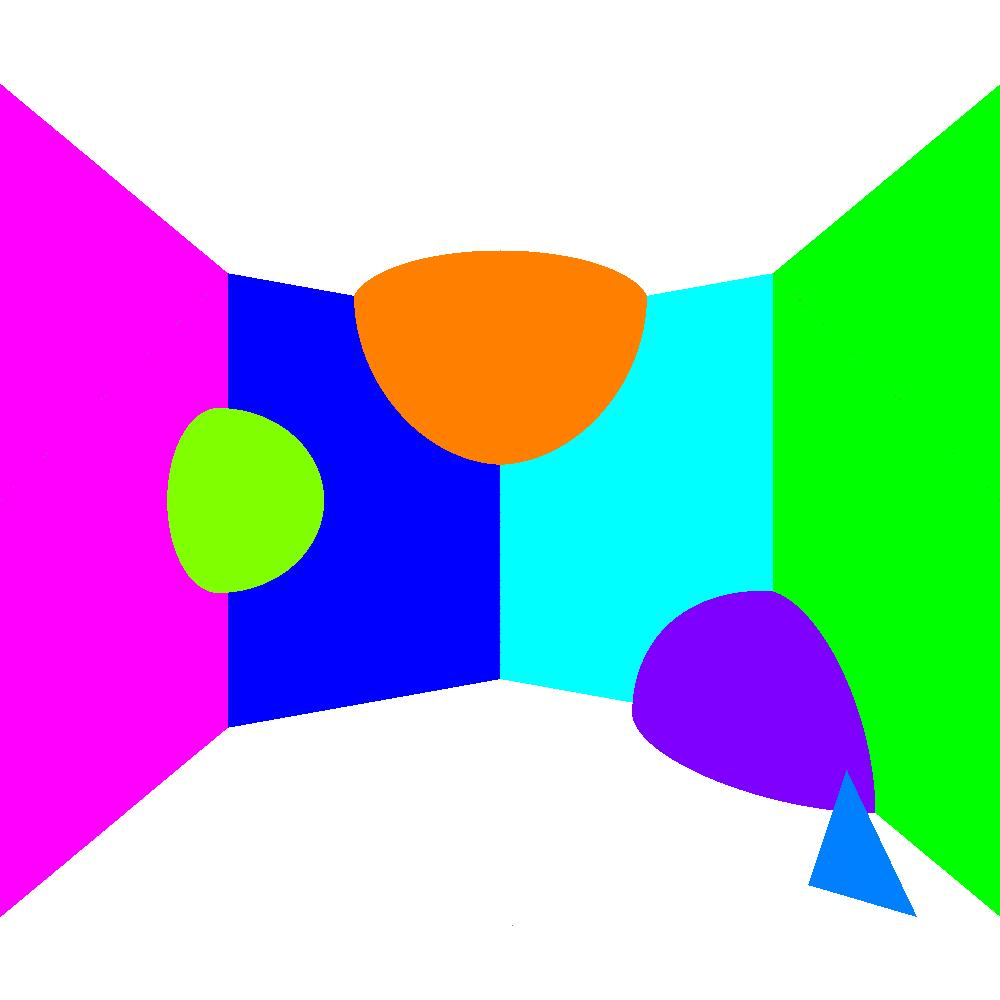
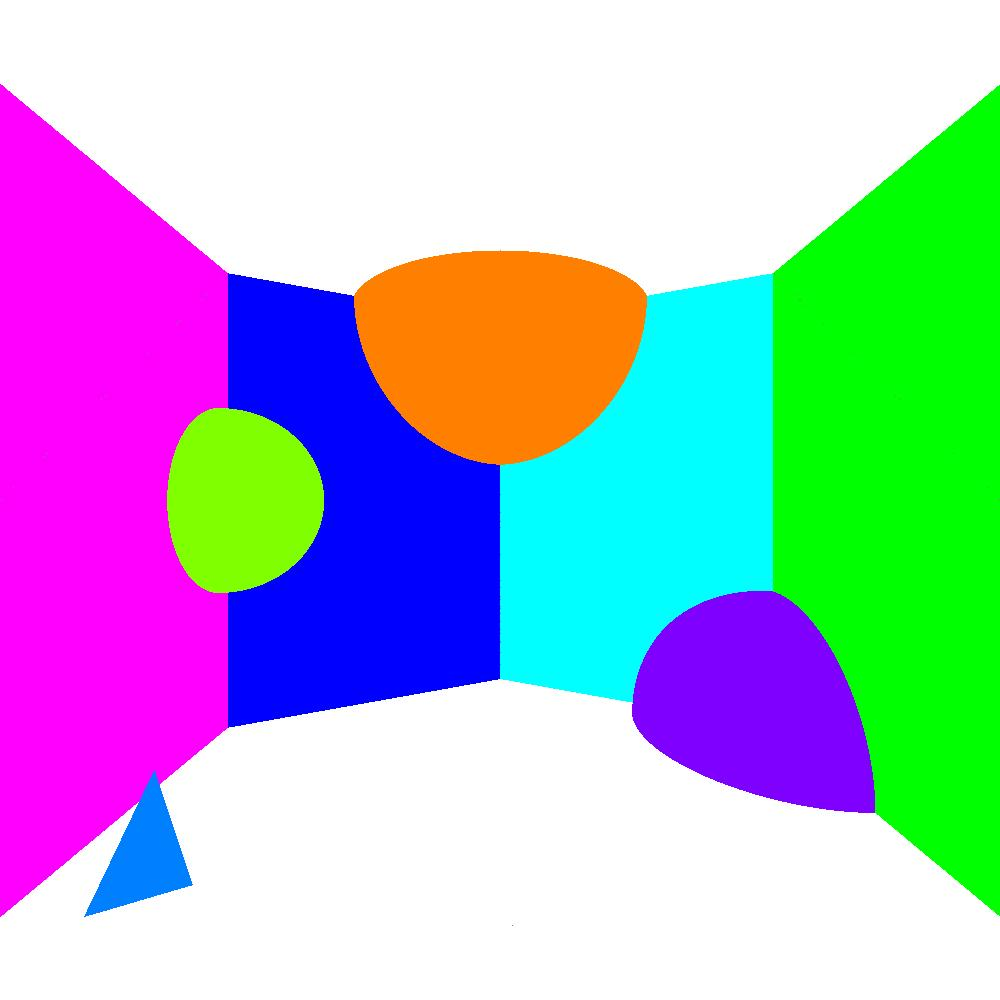
Reflection Classes
For Lambertian and Oren Nayar Diffuse Reflections implemented but not used for calculation yet.

Changed region(s): [[0.806, 0.775, 0.93, 0.93], [0.062, 0.775, 0.217, 0.93]]

diff --git a/src/se/liu/Scene.java b/src/se/liu/Scene.java
@@ -18,25 +18,25 @@ public class Scene {
         objects.add(object);
     }
 
-    void addTriangle(ColorDbl color, double x1, double y1, double z1, double x2, double y2, double z2, double x3, double y3, double z3) {
-        Triangle triangle = new Triangle(color, new Vertex(x1, y1, z1), new Vertex( x2, y2, z2), new Vertex( x3, y3, z3));
+    void addTriangle(ColorDbl color, Reflection reflection, double x1, double y1, double z1, double x2, double y2, double z2, double x3, double y3, double z3) {
+        Triangle triangle = new Triangle(color, reflection, new Vertex(x1, y1, z1), new Vertex( x2, y2, z2), new Vertex( x3, y3, z3));
         objects.add(triangle);
         System.out.println("Added new Triangle at P1( " + x1 + " ; " + y1 + " ; " + z1 + " ) P2( " + x2 + " ; " + y2 + " ; " + z2 + " ) P3( " + x3 + " ; " + y3 + " ; " + z3 + " )");
     }
 
-    void addRectangle(ColorDbl color, double x1, double y1, double z1, double x2, double y2, double z2, double x3, double y3, double z3, double x4, double y4, double z4) {
-        Triangle t1 = new Triangle(color, new Vertex(x1, y1, z1), new Vertex(x2, y2, z2), new Vertex(x3, y3, z3));
-        Triangle t2 = new Triangle(color, new Vertex(x1, y1, z1), new Vertex(x3, y3, z3), new Vertex(x4, y4, z4));
+    void addRectangle(ColorDbl color, Reflection reflection, double x1, double y1, double z1, double x2, double y2, double z2, double x3, double y3, double z3, double x4, double y4, double z4) {
+        Triangle t1 = new Triangle(color, reflection, new Vertex(x1, y1, z1), new Vertex(x2, y2, z2), new Vertex(x3, y3, z3));
+        Triangle t2 = new Triangle(color, reflection, new Vertex(x1, y1, z1), new Vertex(x3, y3, z3), new Vertex(x4, y4, z4));
         objects.add(t1);
         objects.add(t2);
         System.out.println("Added new Rectangle at P1( " + x1 + " ; " + y1 + " ; " + z1 + " ) P2( " + x2 + " ; " + y2 + " ; " + z2 + " ) P3( " + x3 + " ; " + y3 + " ; " + z3 + " ) P4( " + x4 + " ; " + y4 + " ; " + z4 + " )");
     }
 
-    void addTetrahedron(ColorDbl color, double x1, double y1, double z1, double x2, double y2, double z2, double x3, double y3, double z3, double x4, double y4, double z4) {
-        Triangle t1 = new Triangle(color, new Vertex(x1, y1, z1), new Vertex(x2, y2, z2), new Vertex(x3, y3, z3));
-        Triangle t2 = new Triangle(color, new Vertex(x2, y2, z2), new Vertex(x3, y3, z3), new Vertex(x4, y4, z4));
-        Triangle t3 = new Triangle(color, new Vertex(x1, y1, z1), new Vertex(x3, y3, z3), new Vertex(x4, y4, z4));
-        Triangle t4 = new Triangle(color, new Vertex(x1, y1, z1), new Vertex(x2, y2, z2), new Vertex(x4, y4, z4));
+    void addTetrahedron(ColorDbl color, Reflection reflection, double x1, double y1, double z1, double x2, double y2, double z2, double x3, double y3, double z3, double x4, double y4, double z4) {
+        Triangle t1 = new Triangle(color, reflection, new Vertex(x1, y1, z1), new Vertex(x2, y2, z2), new Vertex(x3, y3, z3));
+        Triangle t2 = new Triangle(color, reflection, new Vertex(x2, y2, z2), new Vertex(x3, y3, z3), new Vertex(x4, y4, z4));
+        Triangle t3 = new Triangle(color, reflection, new Vertex(x1, y1, z1), new Vertex(x3, y3, z3), new Vertex(x4, y4, z4));
+        Triangle t4 = new Triangle(color, reflection, new Vertex(x1, y1, z1), new Vertex(x2, y2, z2), new Vertex(x4, y4, z4));
         objects.add(t1);
         objects.add(t2);
         objects.add(t3);
@@ -44,8 +44,8 @@ public class Scene {
         System.out.println("Added new Tetrahedron at P1( " + x1 + " ; " + y1 + " ; " + z1 + " ) P2( " + x2 + " ; " + y2 + " ; " + z2 + " ) P3( " + x3 + " ; " + y3 + " ; " + z3 + " ) P4( " + x4 + " ; " + y4 + " ; " + z4 + " )");
     }
 
-    void addSphere(ColorDbl color, double x, double y, double z, double radius){
-        Sphere s = new Sphere(color,new Vertex(x,y,z),radius);
+    void addSphere(ColorDbl color, Reflection reflection, double x, double y, double z, double radius){
+        Sphere s = new Sphere(color, reflection, new Vertex(x,y,z),radius);
         objects.add(s);
         System.out.println("Added new Sphere at P( " + x + " ; " + y + " ; " + z + " ) with Radius "+radius);
     }

diff --git a/src/se/liu/Main.java b/src/se/liu/Main.java
@@ -21,27 +21,29 @@ public class Main {
         int resY = 1000;
 
         Scene scene = new Scene();
+        //
+        Reflection standard = new Lambertian(0.8);
         // Floor
-        scene.addTriangle(new ColorDbl("white"), -3, 0, -5, 0, 6, -5, 0, -6, -5);
-        scene.addRectangle(new ColorDbl("white"), 10, 6, -5, 0, 6, -5, 0, -6, -5, 10, -6, -5);
-        scene.addTriangle(new ColorDbl("white"), 10, 6, -5, 10, -6, -5, 13, 0, -5);
+        scene.addTriangle(new ColorDbl("white"), standard, -3, 0, -5, 0, 6, -5, 0, -6, -5);
+        scene.addRectangle(new ColorDbl("white"), standard, 10, 6, -5, 0, 6, -5, 0, -6, -5, 10, -6, -5);
+        scene.addTriangle(new ColorDbl("white"), standard, 10, 6, -5, 10, -6, -5, 13, 0, -5);
         // Ceiling
-        scene.addTriangle(new ColorDbl("white"), -3, 0, 5, 0, 6, 5, 0, -6, 5);
-        scene.addRectangle(new ColorDbl("white"), 10, 6, 5, 0, 6, 5, 0, -6, 5, 10, -6, 5);
-        scene.addTriangle(new ColorDbl("white"), 10, 6, 5, 10, -6, 5, 13, 0, 5);
+        scene.addTriangle(new ColorDbl("white"), standard, -3, 0, 5, 0, 6, 5, 0, -6, 5);
+        scene.addRectangle(new ColorDbl("white"), standard, 10, 6, 5, 0, 6, 5, 0, -6, 5, 10, -6, 5);
+        scene.addTriangle(new ColorDbl("white"), standard, 10, 6, 5, 10, -6, 5, 13, 0, 5);
         // Walls
-        scene.addRectangle(new ColorDbl("red"), -3, 0, 5, 0, 6, 5, 0, 6, -5, -3, 0, -5);
-        scene.addRectangle(new ColorDbl("yellow"), -3, 0, 5, 0, -6, 5, 0, -6, -5, -3, 0, -5);
-        scene.addRectangle(new ColorDbl("green"), 10, -6, 5, 0, -6, 5, 0, -6, -5, 10, -6, -5);
-        scene.addRectangle(new ColorDbl("cyan"), 10, -6, 5, 13, 0, 5, 13, 0, -5, 10, -6, -5);
-        scene.addRectangle(new ColorDbl("blue"), 10, 6, 5, 13, 0, 5, 13, 0, -5, 10, 6, -5);
-        scene.addRectangle(new ColorDbl("pink"), 10, 6, 5, 0, 6, 5, 0, 6, -5, 10, 6, -5);
+        scene.addRectangle(new ColorDbl("red"), standard, -3, 0, 5, 0, 6, 5, 0, 6, -5, -3, 0, -5);
+        scene.addRectangle(new ColorDbl("yellow"), standard, -3, 0, 5, 0, -6, 5, 0, -6, -5, -3, 0, -5);
+        scene.addRectangle(new ColorDbl("green"), standard, 10, -6, 5, 0, -6, 5, 0, -6, -5, 10, -6, -5);
+        scene.addRectangle(new ColorDbl("cyan"), standard, 10, -6, 5, 13, 0, 5, 13, 0, -5, 10, -6, -5);
+        scene.addRectangle(new ColorDbl("blue"), standard, 10, 6, 5, 13, 0, 5, 13, 0, -5, 10, 6, -5);
+        scene.addRectangle(new ColorDbl("pink"), standard, 10, 6, 5, 0, 6, 5, 0, 6, -5, 10, 6, -5);
         // Spheres
-        scene.addSphere(new ColorDbl("lemon"),10,6,0,2);
-        scene.addSphere(new ColorDbl("orange"),13,0,5,4);
-        scene.addSphere(new ColorDbl("purple"),10,-6,-5,3);
+        scene.addSphere(new ColorDbl("lemon"), standard,10,6,0,2);
+        scene.addSphere(new ColorDbl("orange"), standard,13,0,5,4);
+        scene.addSphere(new ColorDbl("purple"), standard,10,-6,-5,3);
         // Tetrahedron
-        scene.addTetrahedron(new ColorDbl("sky"),5, -5, -5, 6, -5, -5, 5.5, -4.5, -3.5, 5.5, -4, -5);
+        scene.addTetrahedron(new ColorDbl("sky"), standard,5, 5, -5, 6, 5, -5, 5.5, 4.5, -3.5, 5.5, 4, -5);
         // Initialize two Eye Positions
         Vertex[] eyePoints = new Vertex[2];
         eyePoints[0] = new Vertex(-2, 0, 0);

diff --git a/src/se/liu/Direction.java b/src/se/liu/Direction.java
@@ -1,7 +1,40 @@
 package se.liu;
 
-public class Direction extends Vector {
-    public Direction(double x, double y, double z) {
-        super(x, y, z);
+public class Direction {
+    private double inclination, azimuth;
+    private Vector cartesian;
+    public Direction(double inclination, double azimuth, double r) {
+        this.inclination = inclination%(Math.PI/2);
+        this.azimuth = azimuth%Math.PI;
+        double x,y,z;
+        x= r*Math.cos(azimuth)*Math.sin(inclination);
+        y= r*Math.sin(azimuth)*Math.cos(inclination);
+        z=r*Math.cos(inclination);
+        cartesian.setX(x);
+        cartesian.setY(y);
+        cartesian.setZ(z);
+    }
+
+    public double getInclination() {
+        return inclination;
+    }
+
+    public double getAzimuth() {
+        return azimuth;
+    }
+
+    public Vector getCartesian() {
+        return cartesian;
+    }
+
+    public Direction(Vector cartesian) {
+        this.cartesian=cartesian;
+        double r = cartesian.length();
+        double x = cartesian.getX();
+        double y = cartesian.getY();
+        double z = cartesian.getZ();
+
+        this.azimuth= Math.atan(y/x);
+        this.inclination= Math.atan(Math.sqrt(x*x+y*y)/z);
     }
 }

diff --git a/src/se/liu/Triangle.java b/src/se/liu/Triangle.java
@@ -3,15 +3,17 @@ package se.liu;
 public class Triangle implements Object {
 
     private ColorDbl color;
+    Reflection reflection;
     private Vector normal;
     private Vertex[] vertices = new Vertex[3];
 
-    Triangle(ColorDbl color, Vertex v1, Vertex v2, Vertex v3) {
+    Triangle(ColorDbl color, Reflection reflection, Vertex v1, Vertex v2, Vertex v3) {
         this.color = color;
         this.vertices[0] = v1;
         this.vertices[1] = v2;
         this.vertices[2] = v3;
         this.calculateNormal();
+        this.reflection=reflection;
     }
 
     Triangle(ColorDbl color, double x1, double y1, double z1, double x2, double y2, double z2, double x3, double y3, double z3) {
@@ -28,6 +30,11 @@ public class Triangle implements Object {
     @Override
     public ColorDbl getColor() {
         return color;
+    }
+
+    @Override
+    public Reflection getReflection() {
+        return reflection;
     }
 
     public void setColor(ColorDbl color) {

diff --git a/src/se/liu/OrenNayarDiffuse.java b/src/se/liu/OrenNayarDiffuse.java
@@ -1,0 +1,22 @@
+package se.liu;
+
+public class OrenNayarDiffuse implements Reflection {
+
+    private double standardDeviation;
+    private double reflectionCoefficient;
+
+    public OrenNayarDiffuse(double standardDeviation, double reflectionCoefficient) {
+        this.standardDeviation = standardDeviation;
+        this.reflectionCoefficient = reflectionCoefficient;
+    }
+
+    @Override
+    public double brdf(Vertex x, Direction win, Direction wout) {
+        double A,B,a,b;
+        A=1-(standardDeviation*standardDeviation/2*(standardDeviation*standardDeviation+0.33));
+        B=(0.45*standardDeviation*standardDeviation)/(standardDeviation*standardDeviation+0.09);
+        a=Math.max(win.getInclination(),wout.getInclination());
+        b=Math.min(win.getInclination(),wout.getInclination());
+        return (reflectionCoefficient/Math.PI)*(A+B*Math.max(0,Math.cos(win.getAzimuth()-wout.getAzimuth()))*Math.sin(a)*Math.sin(b));
+    }
+}

diff --git a/src/se/liu/Sphere.java b/src/se/liu/Sphere.java
@@ -3,11 +3,13 @@ package se.liu;
 public class Sphere implements Object {
 
     private ColorDbl color;
+    private Reflection reflection;
     private Vertex center;
     private double radius;
 
-    public Sphere(ColorDbl color, Vertex center, double radius) {
+    public Sphere(ColorDbl color, Reflection reflection, Vertex center, double radius) {
         this.color = color;
+        this.reflection=reflection;
         this.center = center;
         this.radius = radius;
     }
@@ -52,5 +54,10 @@ public class Sphere implements Object {
     @Override
     public ColorDbl getColor() {
         return color;
+    }
+
+    @Override
+    public Reflection getReflection() {
+        return reflection;
     }
 }

diff --git a/src/se/liu/Lambertian.java b/src/se/liu/Lambertian.java
@@ -1,0 +1,14 @@
+package se.liu;
+
+public class Lambertian implements Reflection {
+    private double reflectionCoefficient;
+
+    public Lambertian(double reflectionCoefficient) {
+        this.reflectionCoefficient = reflectionCoefficient;
+    }
+
+    @Override
+    public double brdf(Vertex x, Direction win, Direction wout) {
+        return reflectionCoefficient/Math.PI;
+    }
+}

diff --git a/src/se/liu/Vertex.java b/src/se/liu/Vertex.java
@@ -1,15 +1,10 @@
 package se.liu;
 
 public class Vertex extends Vector {
-    private double w;
-
-    public Vertex(double x, double y, double z, double w) {
-        super(x, y, z);
-        this.w = w;
-    }
+    private Direction w;
 
     Vertex(double x, double y, double z) {
         super(x, y, z);
-        this.w = 1;
+        this.w = new Direction(this);
     }
 }

diff --git a/src/se/liu/Object.java b/src/se/liu/Object.java
@@ -3,4 +3,5 @@ package se.liu;
 public interface Object {
     double rayIntersection (Ray ray);
     ColorDbl getColor();
+    Reflection getReflection();
 }

diff --git a/src/se/liu/Reflection.java b/src/se/liu/Reflection.java
@@ -1,0 +1,5 @@
+package se.liu;
+
+public interface Reflection {
+    double brdf(Vertex x, Direction win, Direction wout);
+}
